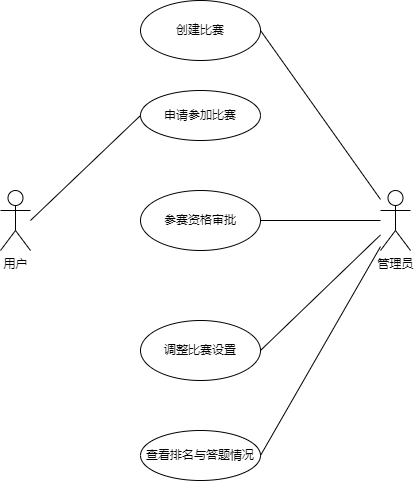
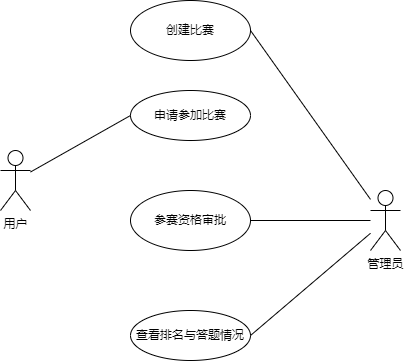
cut redundant function on 4.4.2

diff --git a/Requirement_official.md b/Requirement_official.md
@@ -396,11 +396,7 @@ note left of tk: 比赛创建及参与功能
 
 用户报名参加比赛，若为私密比赛则需要提供申请备注提交管理员审批，可在同一入口查看申请状态
 
-**4） 修改比赛设置功能：**
-
-比赛结束前，可由管理员修改比赛设置，并在用户端提示用户
-
-**5） 查看排名与答题情况功能：**
+**4） 查看排名与答题情况功能：**
 
 比赛结束后，管理员可以查看比赛的排名和用户答题情况，错误分布等
 
@@ -410,7 +406,6 @@ note left of tk: 比赛创建及参与功能
 | ------ | ------------------ |
 | 用户   | 参赛申请           |
 | 管理员 | 创建比赛           |
-| 管理员 | 修改比赛设置       |
 | 管理员 | 参赛审批           |
 | 管理员 | 查看排名与答题情况 |
 
